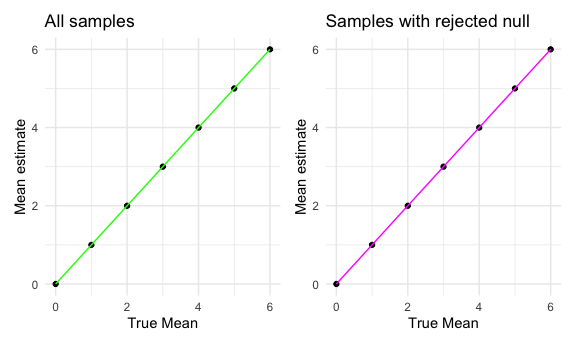
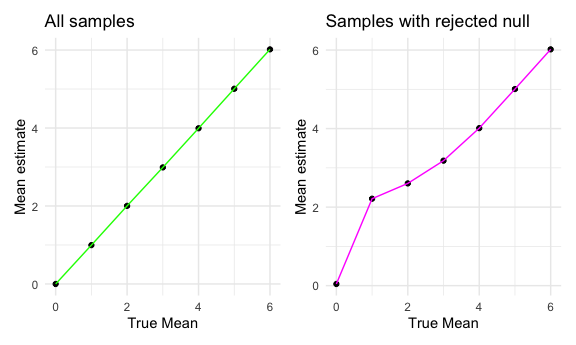
added plot 3 descriptions

diff --git a/p8105_hw5_meb2308.md b/p8105_hw5_meb2308.md
@@ -309,7 +309,7 @@ was rejected on the y axis and the true value of μ on the x axis.
 full_plot_2 =
   output %>% 
   group_by(true_mu) %>% 
-  summarise(mean = mean(true_mu))
+  summarise(mean = mean(estimate))
 ```
 
 ``` r
@@ -317,7 +317,7 @@ reject_plot_3 =
   output %>% 
   filter(p.value < 0.05) %>% 
   group_by(true_mu) %>% 
-  summarise(mean = mean(true_mu))
+  summarise(mean = mean(estimate))
 ```
 
 ``` r
@@ -341,5 +341,8 @@ ggplot(reject_plot_3, aes(x = true_mu, y = mean)) +
 
 <img src="p8105_hw5_meb2308_files/figure-gfm/unnamed-chunk-15-1.png" width="90%" />
 
-The sample average of μ̂ across tests for which the null is rejected is
-equal to the true value of μ.
+The sample average of the mean across tests for which the null is
+rejected is not equal to the that for the full sample, although it gets
+closer as the value of the true mu increases. This occurs because the
+higher true mu values allow for the detection of a larger sample size,
+which makes it easier to reject the null hypothesis.
